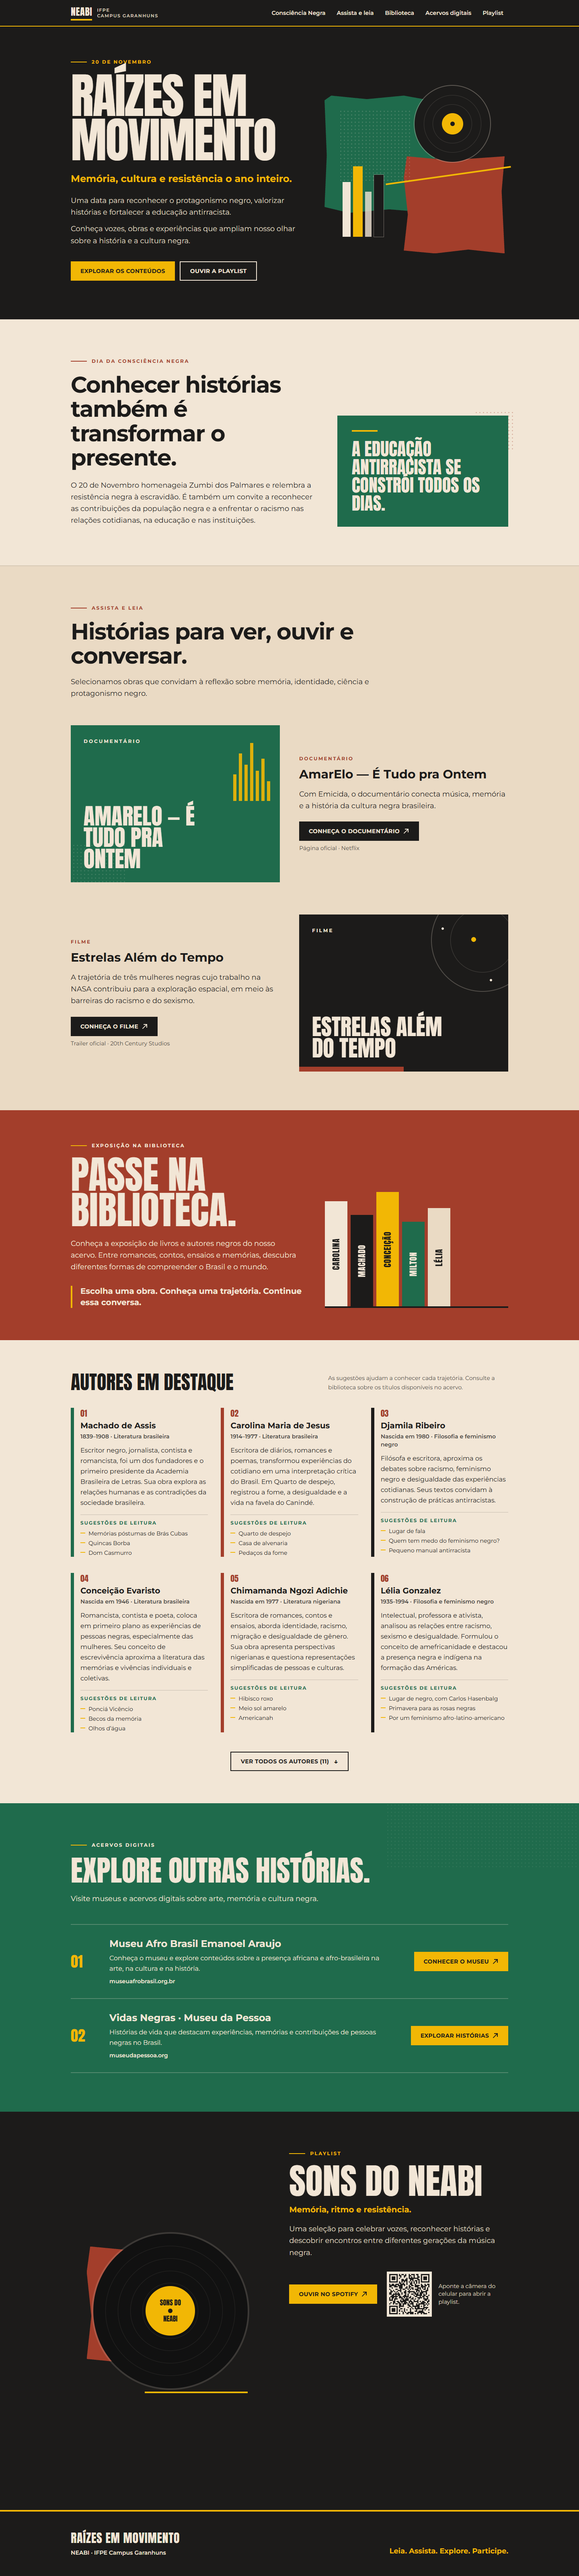
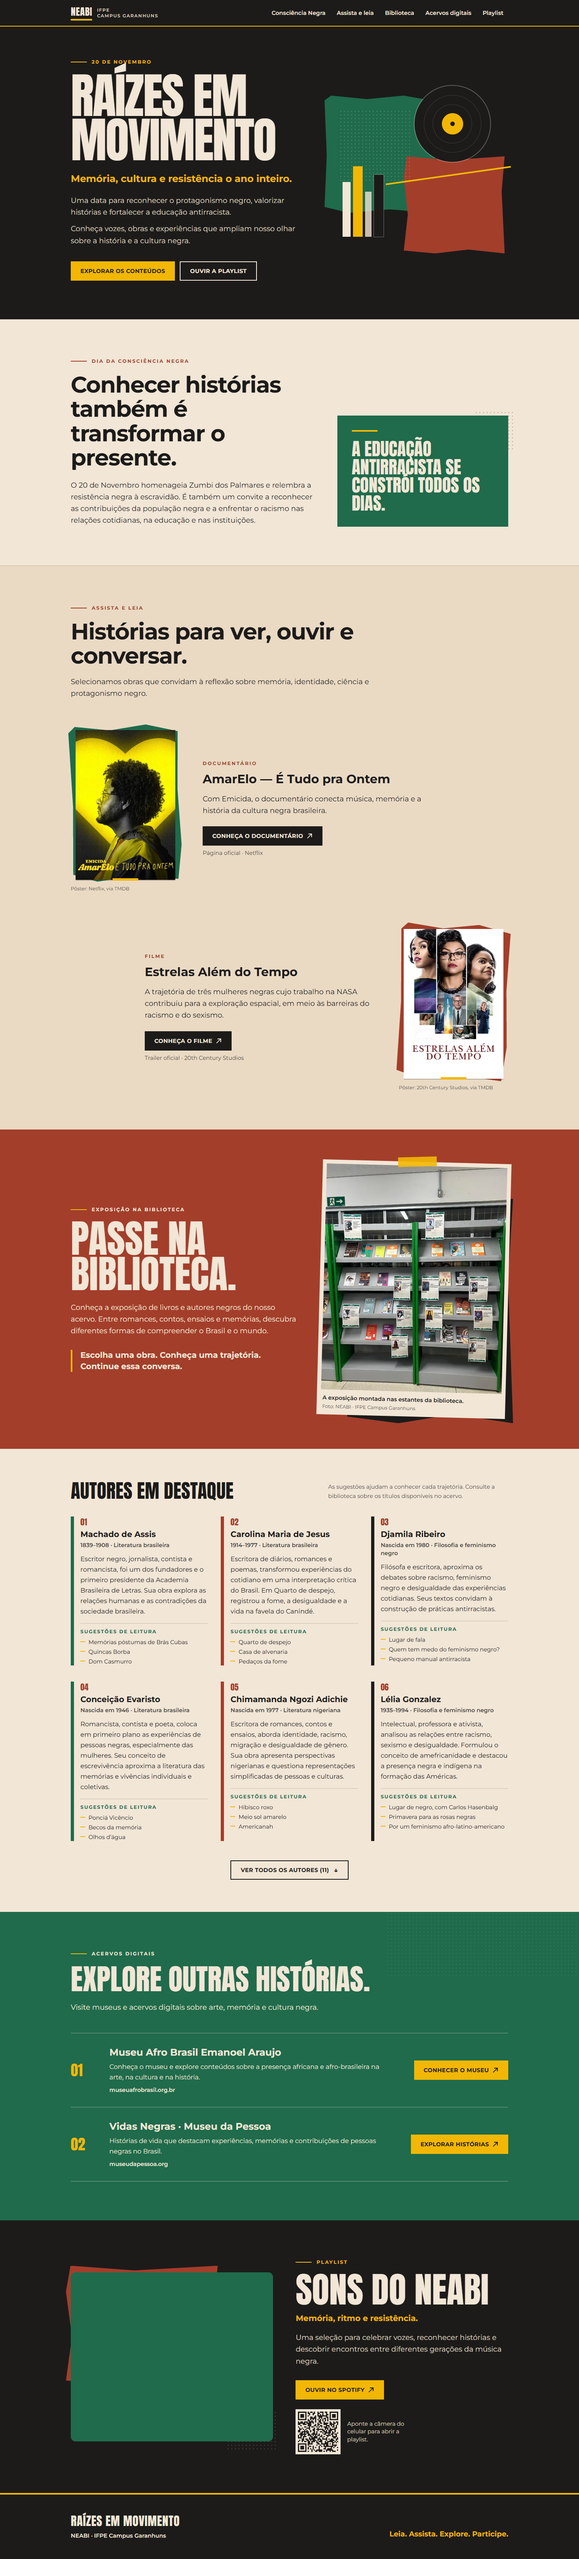
docs: credit images and refresh screenshots

diff --git a/README.md b/README.md
@@ -60,7 +60,12 @@ Com `contact.confirmed: false`, o e-mail não aparece no site. Mude para `true` 
 
 ### Imagens
 
-O site atual não usa fotografias, capas nem retratos. Filmes, livros e playlist aparecem como composições tipográficas e gráficas feitas em CSS. Para adicionar imagens:
+As imagens ficam em `public/` e são declaradas em `site-content.ts` com caminho, dimensões, texto alternativo e crédito:
+
+- `films[].poster`: pôsteres dos filmes, em `public/filmes/`.
+- `biblioteca.photo`: foto da exposição, em `public/biblioteca/`.
+
+O Next.js otimiza essas imagens (`next/image`), e o carregamento fica para quando elas se aproximam da tela. Para trocar ou adicionar imagens:
 
 1. Coloque os arquivos em `public/` (ex.: `public/autores/carolina-maria-de-jesus.jpg`).
 2. Use `next/image` com `width` e `height` definidos e `loading="lazy"` fora da abertura.
@@ -95,7 +100,15 @@ O site não afirma em qual serviço de assinatura cada filme está disponível.
 
 ## Créditos de imagens
 
-Nenhuma imagem de terceiros é usada. O favicon (`src/app/icon.svg`) e a imagem de compartilhamento (`src/app/opengraph-image.tsx`) foram feitos para o projeto com a paleta Raízes em Movimento.
+| Arquivo | Conteúdo | Autoria e origem |
+| --- | --- | --- |
+| `public/biblioteca/exposicao-neabi.jpg` | Exposição de autores negros nas estantes da biblioteca | Foto do NEABI · IFPE Campus Garanhuns, fornecida pela equipe |
+| `public/filmes/amarelo-e-tudo-pra-ontem.jpg` | Pôster oficial de *AmarElo — É Tudo pra Ontem* | © Netflix. Material de divulgação obtido no TMDB (themoviedb.org/movie/765613) |
+| `public/filmes/estrelas-alem-do-tempo.jpg` | Pôster oficial brasileiro de *Estrelas Além do Tempo* | © 20th Century Studios. Material de divulgação obtido no TMDB (themoviedb.org/movie/381284) |
+
+Os pôsteres são usados apenas para identificar as obras em uma página educativa e sem fins comerciais, com crédito visível. Se algum detentor de direitos pedir a remoção, troque `poster` por outra imagem em `site-content.ts`.
+
+Além dessas imagens, o favicon (`src/app/icon.svg`) e a imagem de compartilhamento (`src/app/opengraph-image.tsx`) foram feitos para o projeto com a paleta Raízes em Movimento.
 
 ## Publicar na Vercel
 
@@ -118,8 +131,8 @@ npx vercel --prod   # produção, só depois de revisar o preview
 - [x] Link real da playlist Sons do NEABI no Spotify, com QR code.
 - [ ] Confirmação do e-mail `neabi@garanhuns.ifpe.edu.br` como contato institucional.
 - [ ] Arquivo oficial da marca NEABI (SVG ou PNG transparente).
-- [ ] Capa da playlist, se for desejado exibi-la no lugar do disco ilustrado.
-- [ ] Fotografias e materiais da exposição, com créditos e licença.
+- [x] Foto da exposição na biblioteca.
+- [ ] Confirmar a autoria da foto da exposição (o crédito atual é "Foto: NEABI · IFPE Campus Garanhuns").
 - [ ] Confirmação de quais autores e livros estão de fato no acervo da biblioteca.
 - [ ] Conferir as fontes das biografias ainda sem referência no README: Djamila Ribeiro, Chimamanda Ngozi Adichie, Lélia Gonzalez, Milton Santos, Frantz Fanon e Itamar Vieira Junior.
 - [ ] Conferir o título em português "O tempo da infância", de Françoise Ega. Não foi localizada edição brasileira com esse nome.
